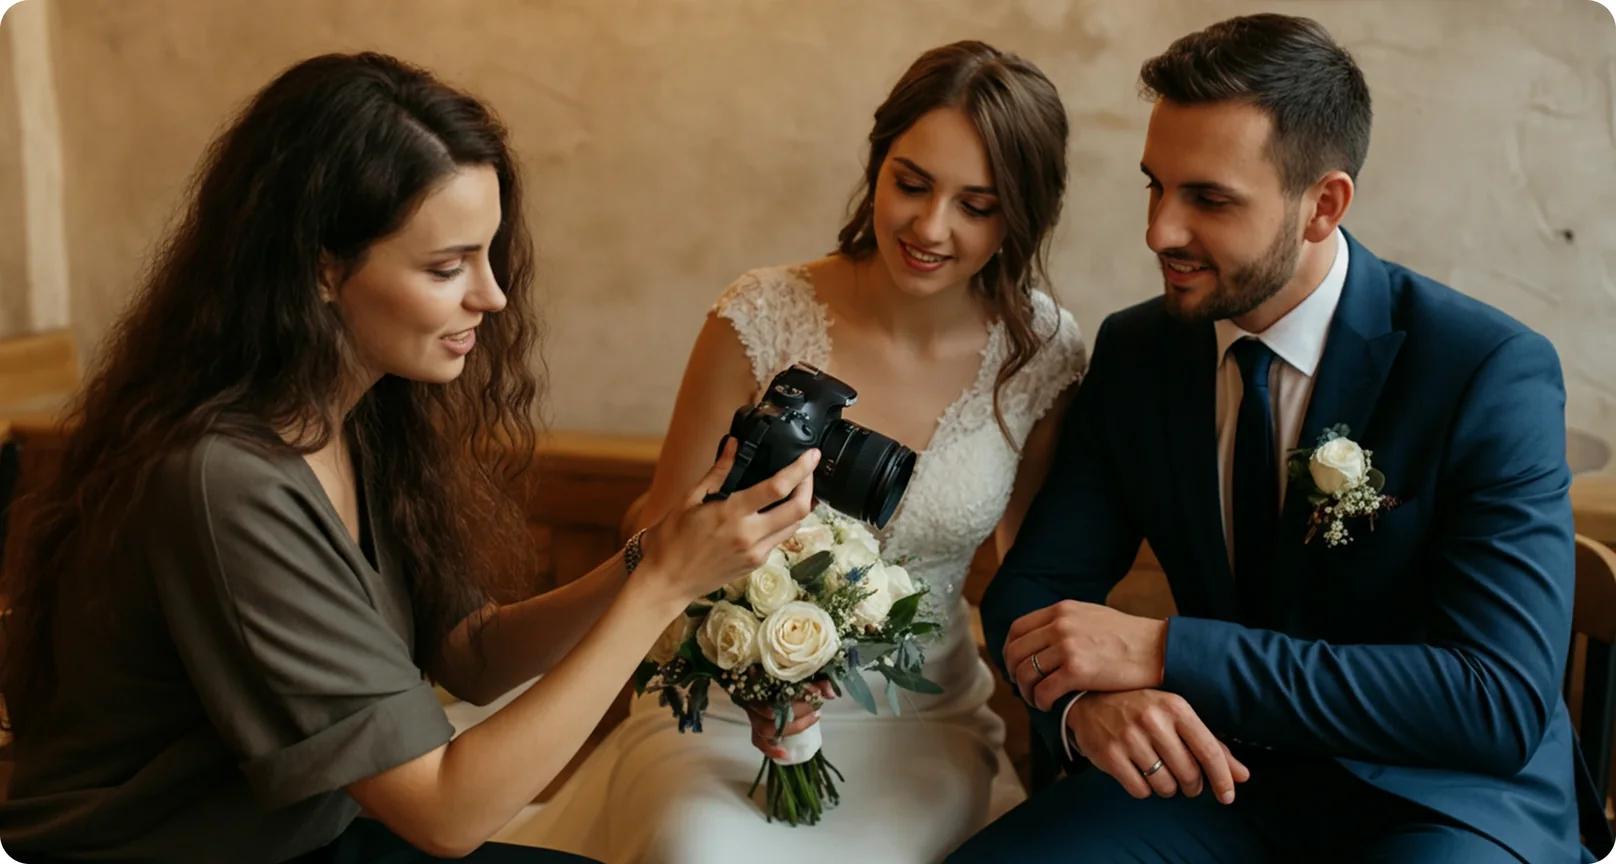
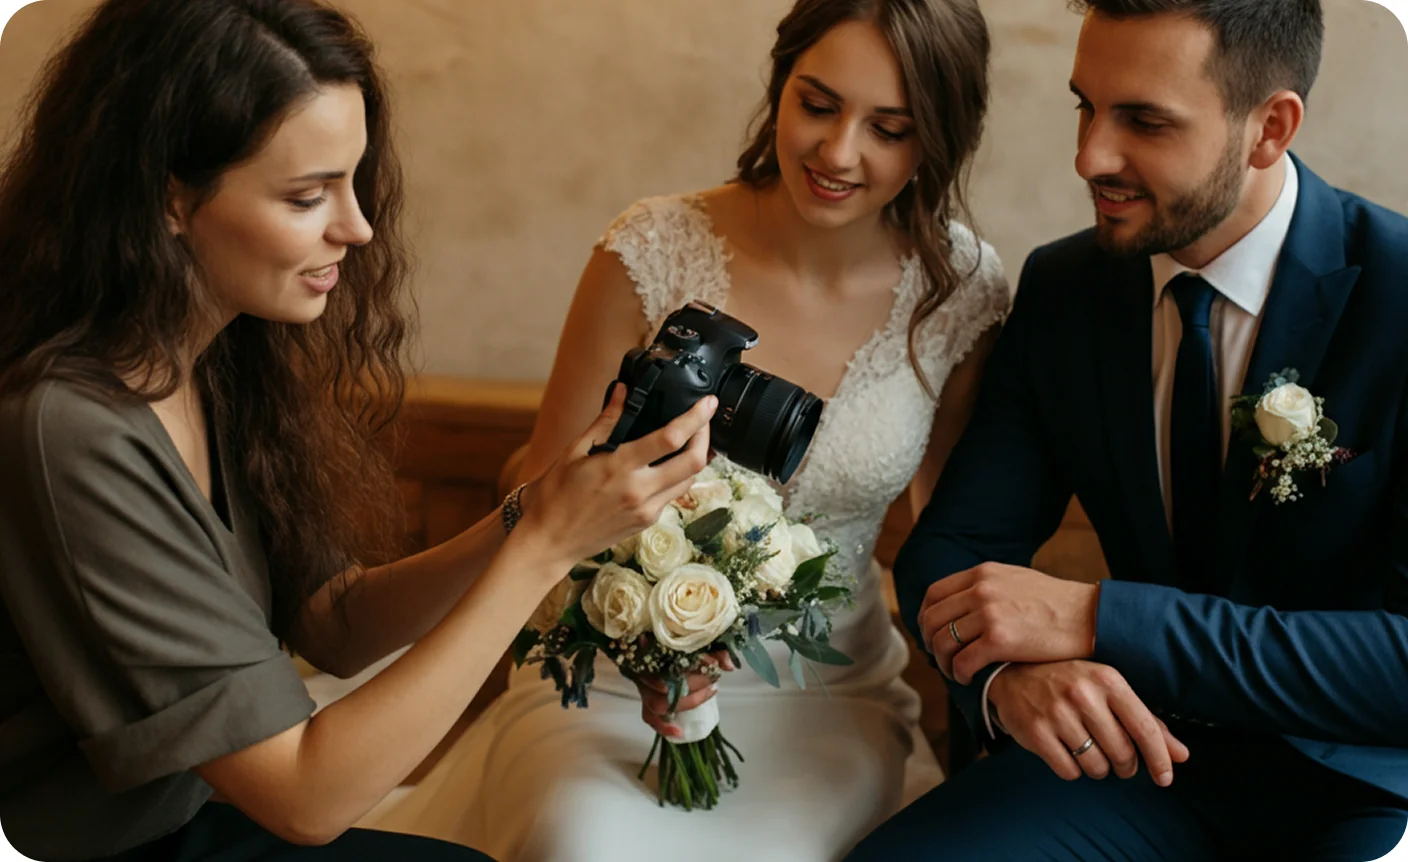
Refactor hero component and update styles

diff --git a/src/css/hero.css b/src/css/hero.css
@@ -1,17 +1,11 @@
-/* ===========================
-   HERO SECTION — mobile first
-   =========================== */
+/* HERO SECTION — mobile first */
 
-.Hero {
+.hero {
   padding: 32px 0;
-  background-color: #f7f4ef;
+  background-color: var(--color-scheme-2-background);
 }
 
-.Hero__container {
-  display: block;
-}
-
-.Hero__visual {
+.hero__visual {
   position: relative;
   display: flex;
   width: 100%;
@@ -26,14 +20,17 @@
   background-size: cover;
 }
 
-.Hero__overlay {
+.hero__overlay {
+  box-sizing: content-box;
   display: flex;
-  width: 100%;
-  min-height: inherit;
+  width: calc(100% - 40px);
+  max-width: 295px;
+  min-height: 464px;
   flex-direction: column;
   align-items: stretch;
   justify-content: flex-start;
-  padding: 32px 16px 20px;
+  gap: 24px;
+  padding: 32px 20px;
   background: linear-gradient(
     180deg,
     rgba(0, 0, 0, 0.18) 0%,
@@ -41,33 +38,41 @@
   );
 }
 
-.Hero__content {
+.hero__content {
   align-self: stretch;
+  display: flex;
+  flex-direction: column;
+  gap: 24px;
   width: 100%;
-  max-width: none;
+  max-width: 295px;
   color: var(--color-white);
   text-align: left;
 }
 
-.Hero__title {
+.hero__title {
+  width: min(295px, 100%);
   max-width: 100%;
-  margin-bottom: 12px;
+  height: 192px;
+  overflow-y: auto;
   font-family: var(--second-family);
   font-weight: 500;
-  font-size: 36px;
-  line-height: 1.08;
+  font-size: 40px;
+  line-height: 1.2;
   letter-spacing: -0.01em;
 }
 
-.Hero__subtitle {
+.hero__subtitle {
+  width: min(295px, 100%);
   max-width: 100%;
+  height: 162px;
+  overflow-y: auto;
   color: rgba(255, 255, 255, 0.95);
   font-weight: 400;
-  font-size: 16px;
+  font-size: 18px;
   line-height: 1.5;
 }
 
-.Hero__actions {
+.hero__actions {
   align-self: stretch;
   width: 100%;
   margin-top: auto;
@@ -75,7 +80,7 @@
   justify-content: flex-start;
 }
 
-.Hero .Button {
+.hero .button {
   display: inline-flex;
   align-items: center;
   justify-content: center;
@@ -89,39 +94,39 @@
     box-shadow var(--transition);
 }
 
-.Hero .Button_primary {
+.hero .button_primary {
   width: 100%;
   max-width: none;
   min-height: 44px;
   padding: 0 24px;
-  background-color: var(--color-white);
+  background-color: #f0d33a;
   color: var(--color-neutral-darkest);
 }
 
-.Hero .Button_primary:hover,
-.Hero .Button_primary:focus {
+.hero .button_primary:hover,
+.hero .button_primary:focus {
   background-color: var(--color-white);
   border-color: var(--color-curious-blue);
   color: var(--color-neutral-darkest);
   outline: none;
 }
 
-.Hero .Button_primary:active {
+.hero .button_primary:active {
   background-color: #f3df59;
   border-color: var(--color-curious-blue);
   box-shadow: inset 0 0 0 1px var(--color-curious-blue);
 }
 
-.Hero .Button_primary:disabled,
-.Hero .Button_primary[aria-disabled='true'] {
+.hero .button_primary:disabled,
+.hero .button_primary[aria-disabled='true'] {
   background-color: #f6e99b;
   border-color: transparent;
   color: var(--color-neutral-light);
   pointer-events: none;
 }
 
-.Hero .VisuallyHidden {
-  position: absolute !important;
+.hero .visually-hidden {
+  position: absolute;
   width: 1px;
   height: 1px;
   padding: 0;
@@ -132,80 +137,83 @@
   border: 0;
 }
 
-/* ===========================
-   MOBILE ADAPTIVE: min-width 375px
-   =========================== */
+/* MOBILE ADAPTIVE: min-width 375px */
 
 @media (min-width: 375px) {
-  .Hero__visual {
+  .hero__visual {
     min-height: 590px;
   }
 
-  .Hero__overlay {
-    padding: 28px 16px 24px;
+  .hero__overlay {
+    width: 295px;
+    min-height: 464px;
   }
 
-  .Hero__title {
-    font-size: 38px;
-  }
 }
 
-/* ===========================
-   TABLET: min-width 768px
-   =========================== */
+/* TABLET: min-width 768px */
 
 @media (min-width: 768px) {
-  .Hero {
-    padding: 32px 0;
-  }
-
-  .Hero__visual {
+  .hero__visual {
     min-height: 431px;
     background-image: url('/img/hero-tablet.webp');
     background-position: center 34%;
   }
 
-  .Hero__overlay {
+  .hero__overlay {
+    box-sizing: border-box;
+    width: 100%;
+    max-width: none;
     align-items: flex-start;
+    min-height: inherit;
+    justify-content: flex-end;
+    gap: 32px;
     padding: 38px 32px 32px;
   }
 
-  .Hero__content {
+  .hero__content {
     max-width: 640px;
   }
 
-  .Hero__title {
-    max-width: 500px;
-    margin-bottom: 24px;
+  .hero__title {
+    width: min(519px, 100%);
+    max-width: 519px;
+    height: 96px;
+    overflow-y: auto;
+    font-size: 40px;
+    line-height: 1.2;
   }
 
-  .Hero__subtitle {
+  .hero__subtitle {
+    width: min(640px, 100%);
     max-width: 640px;
+    height: 81px;
+    overflow-y: auto;
+    font-size: 18px;
+    line-height: 1.5;
   }
 
-  .Hero__actions {
+  .hero__actions {
     width: auto;
+    margin-top: 0;
   }
 
-  .Hero .Button_primary {
+  .hero .button_primary {
     width: 159px;
     max-width: none;
     min-height: 44px;
     padding: 0;
-    background-color: #f0d33a;
   }
 }
 
-/* ===========================
-   DESKTOP: min-width 1440px
-   =========================== */
+/* DESKTOP: min-width 1440px */
 
 @media (min-width: 1440px) {
-  .Hero {
+  .hero {
     padding: 48px 0;
   }
 
-  .Hero__visual {
+  .hero__visual {
     max-width: 1312px;
     height: 702px;
     min-height: unset;
@@ -213,8 +221,9 @@
     background-position: center center;
   }
 
-  .Hero__overlay {
+  .hero__overlay {
     display: grid;
+    min-height: inherit;
     grid-template-columns: minmax(0, 1fr) 159px;
     align-items: end;
     align-content: end;
@@ -222,7 +231,7 @@
     padding: 32px 64px;
   }
 
-  .Hero__content {
+  .hero__content {
     width: 100%;
     max-width: 993px;
     display: flex;
@@ -232,18 +241,27 @@
     gap: 24px;
   }
 
-  .Hero__title {
+  .hero__title {
+    width: auto;
     max-width: 760px;
+    height: auto;
+    overflow: visible;
     margin: 0;
     font-size: 56px;
+    line-height: 1.2;
   }
 
-  .Hero__subtitle {
+  .hero__subtitle {
+    width: auto;
     max-width: 798px;
+    height: auto;
+    overflow: visible;
     margin: 0;
+    font-size: 18px;
+    line-height: 1.5;
   }
 
-  .Hero__actions {
+  .hero__actions {
     width: 159px;
     height: 44px;
     margin-top: 0;
@@ -252,10 +270,9 @@
     justify-content: flex-end;
   }
 
-  .Hero .Button_primary {
+  .hero .button_primary {
     width: 159px;
     height: 44px;
     min-height: 44px;
-    background-color: #f0d33a;
   }
 }

diff --git a/src/partials/hero.html b/src/partials/hero.html
@@ -1,18 +1,18 @@
-<section class="Hero" aria-labelledby="hero-heading">
-  <div class="Hero__container container">
-    <figure class="Hero__visual" aria-labelledby="hero-visual-caption">
-      <div class="Hero__overlay">
-        <header class="Hero__content">
-          <h1 id="hero-heading" class="Hero__title">Capture Your Love Story with Timeless Photography</h1>
-          <p class="Hero__subtitle">At Maria Kovalenko Photography, we specialize in capturing the genuine emotions of your special day. Let us turn your unforgettable moments into stunning memories that last a lifetime.</p>
+<section class="hero" aria-labelledby="hero-heading">
+  <div class="hero__container container">
+    <div class="hero__visual" aria-labelledby="hero-visual-caption">
+      <div class="hero__overlay">
+        <header class="hero__content">
+          <h1 id="hero-heading" class="hero__title">Capture Your Love Story with Timeless Photography</h1>
+          <p class="hero__subtitle">At Maria Kovalenko Photography, we specialize in capturing the genuine emotions of your special day. Let us turn your unforgettable moments into stunning memories that last a lifetime.</p>
         </header>
 
-        <div class="Hero__actions">
-          <a class="Button Button_primary" href="#contacts">Book a session</a>
+        <div class="hero__actions">
+          <a class="button button_primary" href="#contacts">Book a session</a>
         </div>
       </div>
 
-      <figcaption id="hero-visual-caption" class="VisuallyHidden">Example wedding photographer work — couple and photographer</figcaption>
-    </figure>
+      <span id="hero-visual-caption" class="visually-hidden">Example wedding photographer work — couple and photographer</span>
+    </div>
   </div>
 </section>